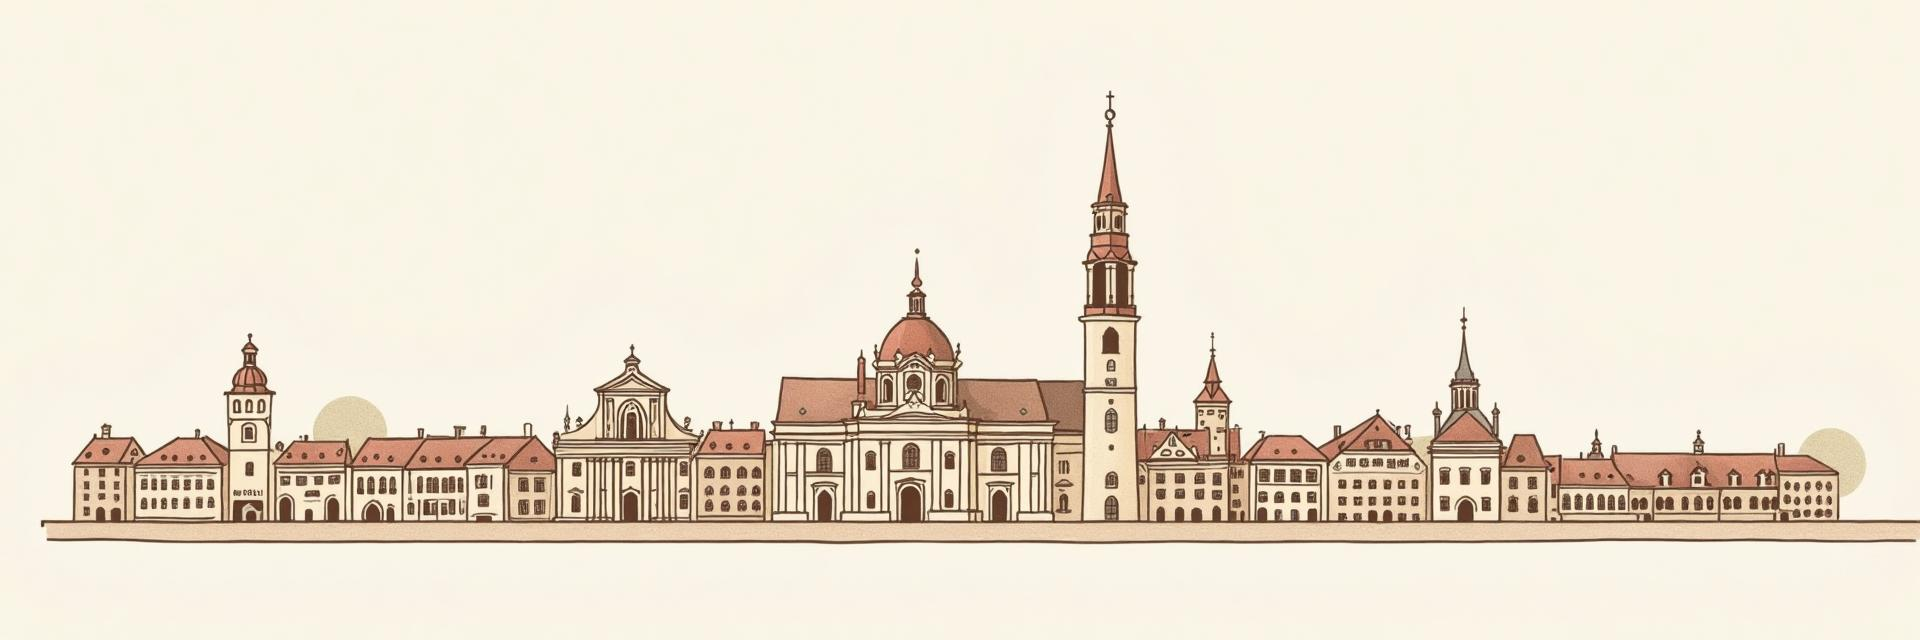
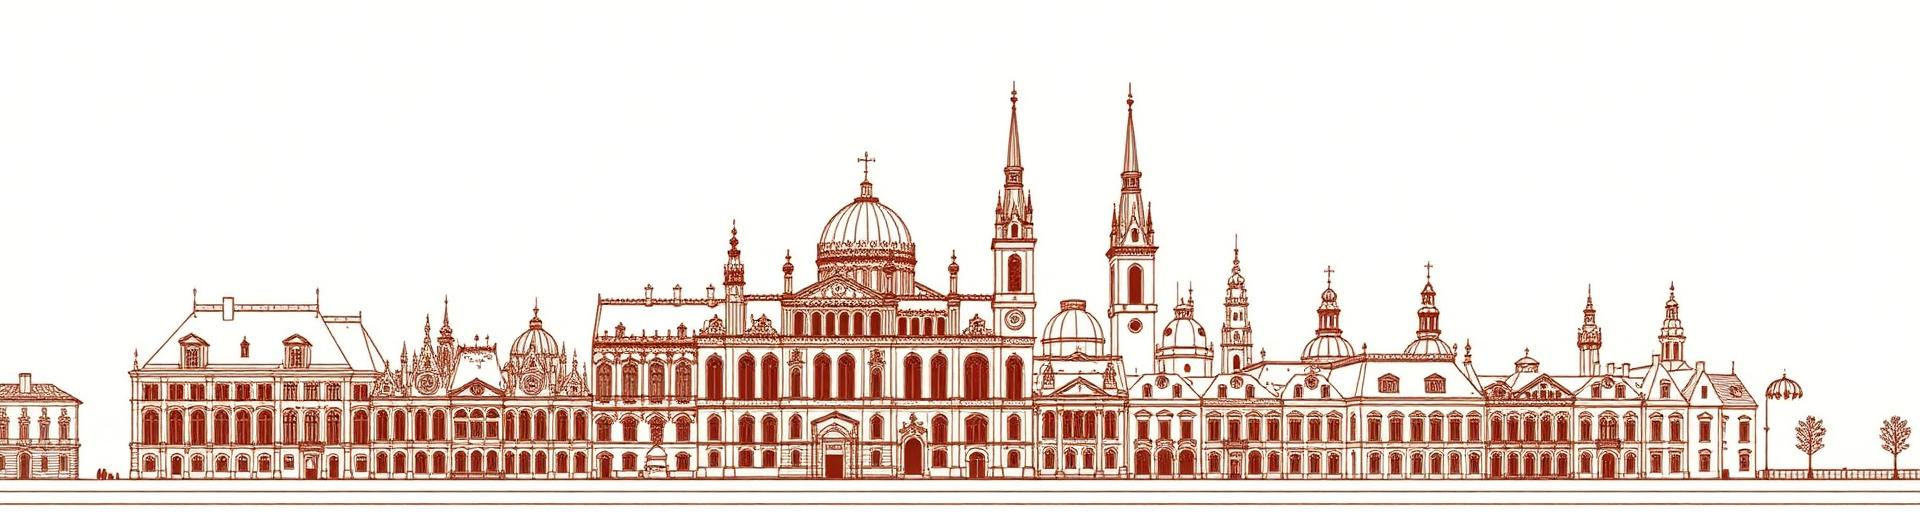
Remove image background to transparent
- Replace current background-laden Warsaw image with a transparent PNG version
- Use original Warsaw skyline line art with no background for hero section integration

diff --git a/src/components/HeroWeb3.tsx b/src/components/HeroWeb3.tsx
@@ -1,6 +1,6 @@
 import { Button } from "@/components/ui/button";
 import Sparkles from "lucide-react/dist/esm/icons/sparkles";
-import warsawLineart from "@/assets/warsaw-lineart-transparent.png";
+import warsawLineart from "@/assets/warsaw-lineart.png";
 
 const HeroWeb3 = () => {
   const scrollToContact = () => {
